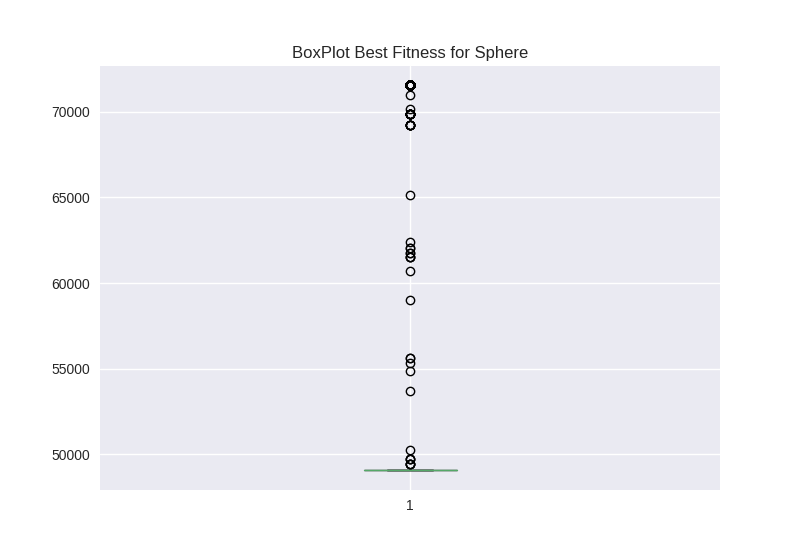
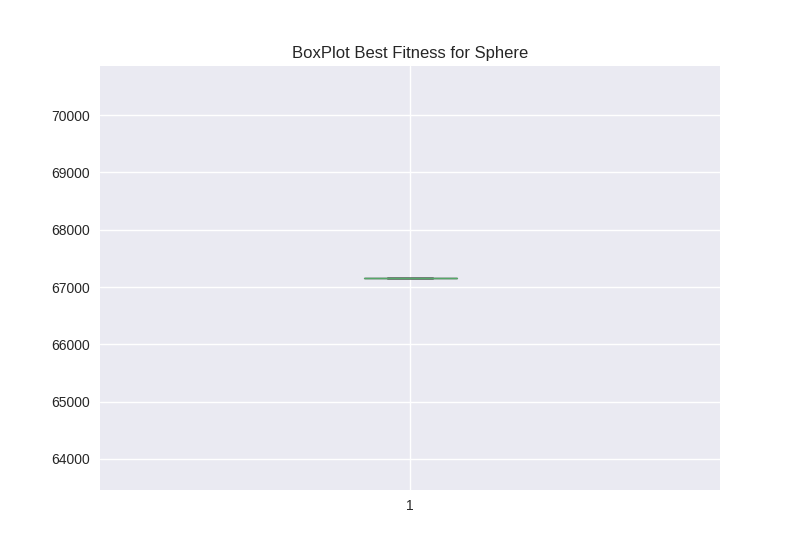
wip

diff --git a/particle.py b/particle.py
@@ -1,6 +1,7 @@
 import numpy as np
 import copy
 import random
+from parameters import dimensions, iterations_number
 
 
 class Particle():
@@ -35,35 +36,67 @@ class Fish():
         self.fitness = new_fitness
 
     def update_position_individual_movement(self, step_ind):
-        new_positions = [pos + step_ind * random.uniform(-1, 1) for pos in self.current_position]
+        new_positions = []
+        for pos in self.current_position:
+            new = pos + (step_ind * np.random.uniform(-1, 1))
+            if new > self.fitness_function.upper_bound:
+                new = self.fitness_function.upper_bound
+            elif new < self.fitness_function.lower_bound:
+                new = self.fitness_function.lower_bound
+            new_positions.append(new)
         assert len(new_positions) == len(self.current_position)
-        self.delta_position = [x - y for x, y in zip(self.current_position, new_positions)]
-        self.current_position = list(new_positions)
 
-        old_fitness = self.fitness
-        self.evaluate()
-        self.delta_fitness = old_fitness - self.fitness
+        new_fitness = self.fitness_function.calculate_fitness(new_positions)
+        if new_fitness < self.fitness:
+            self.delta_fitness = abs(new_fitness - self.fitness)
+            self.fitness = new_fitness
+            self.delta_position = [x - y for x, y in zip(new_positions, self.current_position)]
+            self.current_position = list(new_positions)
+        else:
+            self.delta_position = [0] * dimensions
+            self.delta_fitness = 0
 
     def feed(self, max_delta_fitness):
-        self.weight = self.weight + self.delta_fitness / max_delta_fitness
+        if max_delta_fitness < 1:
+            self.weight = 1
+        else:
+            self.weight = self.weight + (self.delta_fitness / max_delta_fitness)
+
+        if self.weight > (iterations_number / 2.0):
+            self.weight = iterations_number / 2.0
 
     def update_position_collective_movement(self, sum_delta_fitness):
-        collective_instinct = sum([pos * self.delta_fitness for pos in self.delta_position]) / sum_delta_fitness
-        import pdb; pdb.set_trace()
-        new_positions = [pos + collective_instinct for pos in self.current_position]
-        assert len(new_positions) == len(self.current_position)
+        collective_instinct = [pos * self.delta_fitness for pos in self.delta_position]
 
-        self.delta_position = [x - y for x, y in zip(self.current_position, new_positions)]
+        if sum_delta_fitness != 0:
+            collective_instinct = [val / sum_delta_fitness for val in collective_instinct]
+
+        new_positions = []
+        for pos, mov in zip(self.current_position, collective_instinct):
+            new = pos + mov
+            if new > self.fitness_function.upper_bound:
+                new = self.fitness_function.upper_bound
+            elif new < self.fitness_function.lower_bound:
+                new = self.fitness_function.lower_bound
+            new_positions.append(new)
+
+        assert len(new_positions) == len(self.current_position)
         self.current_position = list(new_positions)
 
     def update_position_volitive_movement(self, barycenter, step_vol, search_operator):
-        volitive_step = [x - y for x, y in zip(self.current_position,barycenter)] / np.linalg.norm([self.current_position, barycenter])
-        volitive_step = random.uniform(0.1, 0.9) * step_vol * volitive_step * search_operator
+        new_positions = []
+        for i, pos in enumerate(self.current_position):
+            new = pos + ((((pos - barycenter[i])/ np.linalg.norm([self.current_position, barycenter])) * step_vol * np.random.uniform(0, 1)) * search_operator)
+            if new > self.fitness_function.upper_bound:
+                new = self.fitness_function.upper_bound
+            elif new < self.fitness_function.lower_bound:
+                new = self.fitness_function.lower_bound
+            new_positions.append(new)
+        # volitive_step = [x - y for x, y in zip(self.current_position,barycenter)] / np.linalg.norm([self.current_position, barycenter])
+        # volitive_step = np.random.uniform(0, 1) * step_vol * volitive_step * search_operator
+        # new_positions = [x + y for x, y in zip(self.current_position, volitive_step)]
 
-        new_positions = [x + y for x, y in zip(self.current_position, volitive_step)]
         assert len(new_positions) == len(self.current_position)
-
-        self.delta_position = [x - y for x, y in zip(self.current_position, new_positions)]
         self.current_position = list(new_positions)
 
 

diff --git a/fish_school_search.py b/fish_school_search.py
@@ -22,10 +22,10 @@ class FSS():
         # Params
         self.total_weight = 1 * self.num_of_individuos
         self.initial_step_ind = 1
-        self.final_step_ind = 0.01
+        self.final_step_ind = 0.0001
         self.step_ind = self.initial_step_ind
         self.initial_step_vol = 1
-        self.final_step_vol = 0.01
+        self.final_step_vol = 0.001
         self.step_vol = self.initial_step_vol
         self.list_global_best_values = []
 
@@ -48,8 +48,11 @@ class FSS():
             self.update_step(i)
             self.update_total_weight()
 
+            self.evaluate_cluster()
+            self.updates_optimal_solution()
+
             self.list_global_best_values.append(self.global_best)
-            print("iter: {} = cost: {}".format(i, self.global_best))
+            # print("iter: {} = cost: {}".format(i, self.global_best))
 
     def update_total_weight(self):
         self.total_weight = sum([fish.weight for fish in self.cluster])
@@ -69,10 +72,8 @@ class FSS():
 
     def updates_optimal_solution(self):
         for fish in self.cluster:
-            new_best = fish.fitness
-
-            if new_best < self.global_best:
-                self.global_best = new_best
+            if fish.fitness < self.global_best:
+                self.global_best = fish.fitness
                 self.global_best_position = list(fish.current_position)
 
     def apply_individual_movement(self):
@@ -104,8 +105,8 @@ class FSS():
             fish.update_position_volitive_movement(barycenter, self.step_vol, search_operator)
 
     def update_step(self, current_i):
-        self.step_ind -= (self.final_step_ind - self.initial_step_ind)/(current_i + 1)
-        self.step_vol -= (self.final_step_vol - self.initial_step_vol)/(current_i + 1)
+        self.step_ind = self.step_ind - current_i * float(self.final_step_ind - self.initial_step_ind)/iterations_number
+        self.step_vol = self.step_vol - current_i * float(self.final_step_vol - self.initial_step_vol)/iterations_number
 
     def _get_random_number(self):
-        return random.uniform(self.function.lower_bound, self.function.upper_bound)
+        return np.random.uniform(self.function.lower_bound, self.function.upper_bound)

diff --git a/functions.py b/functions.py
@@ -36,7 +36,7 @@ class Rastrigin(AFunction):
 	def calculate_fitness(self, position_list):
 		solution = 0
 		for position in position_list:
-			solution += (position ** 2 + 10 - 10 * math.cos(2 * math.pi * position))
+			solution += (position ** 2 - 10 * math.cos(2 * math.pi * position) + 10)
 		return solution
 
 

diff --git a/parameters.py b/parameters.py
@@ -1,4 +1,4 @@
-iterations_number = 10000
+iterations_number = 2500
 num_of_individuos = 30
 probability_of_recombination = 0.6
-dimensions = 30
+dimensions = 4
